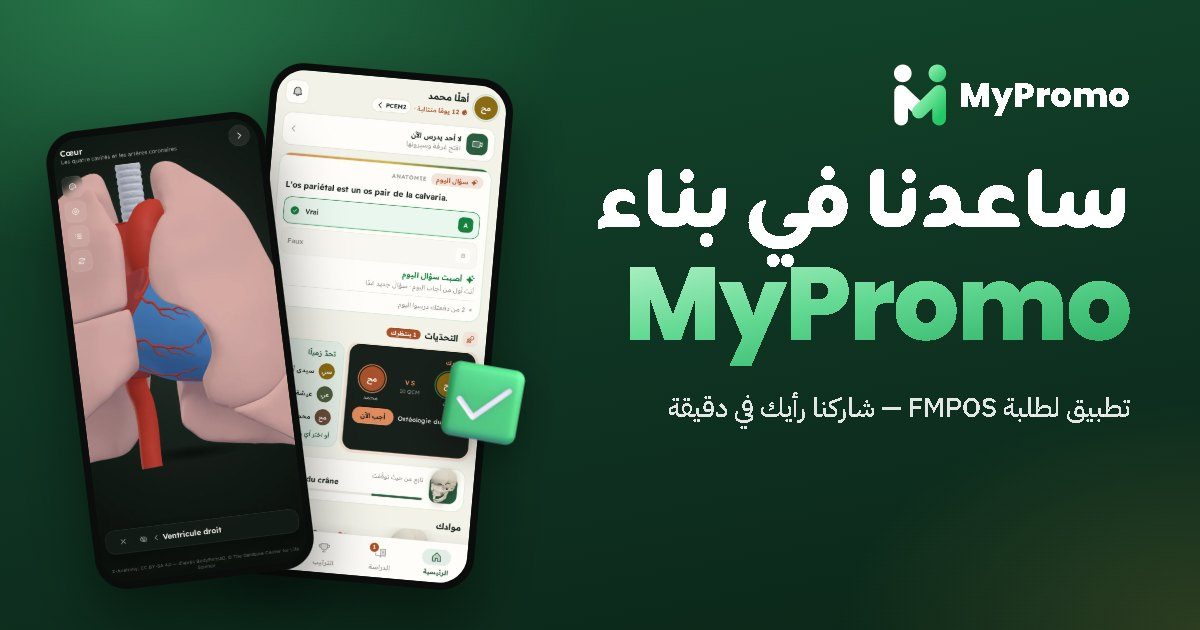
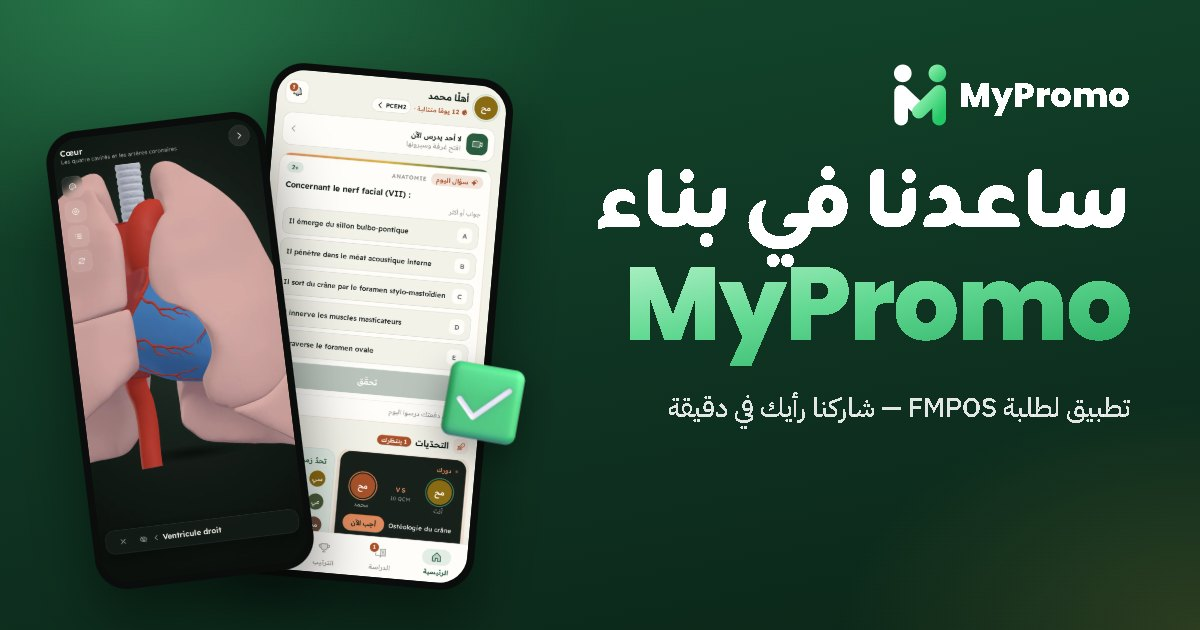
Feedback page: fewer words, five-proposition QCMs, clean 3D shots
- No «منّا ولنا» pill and no «قريبًا · لطلبة FMPOS» chip in the hero.
- Anatomie 3D keeps its title and numbers, without the paragraph.
- No "lectures will be added" note under the tracks.
- New screenshots: a five-proposition QCM answered right, the home
  screen's question of the day in five propositions, and the 3D models
  without the in-screen credit, which moves to the footer.
- The mock's QCMs are five propositions, one or more right, as at FMPOS.

diff --git a/app/feedback/page.js b/app/feedback/page.js
@@ -127,12 +127,10 @@ export default async function Feedback() {
         <div className="lp-in">
           <nav className="lp-top">
             <span className="lp-brand" dir="ltr"><Mark size={30} light /><b>MyPromo</b></span>
-            <span className="lp-slogan">منّا ولنا</span>
           </nav>
 
           <div className="lp-hero-grid">
             <div className="lp-hero-copy">
-              <span className="lp-chip">قريبًا · لطلبة FMPOS</span>
               <h1>
                 <span className="lp-h1a">ساعدنا في بناء</span>
                 <span className="lp-h1b" dir="ltr">MyPromo</span>
@@ -149,7 +147,7 @@ export default async function Feedback() {
 
             <div className="lp-stage" aria-label="صور حقيقية من التطبيق">
               <Phone src="/preview/study.webp" alt="شاشة الدراسة في MyPromo: المواد، QCM، الملخصات والنموذج ثلاثي الأبعاد" className="side" />
-              <Phone src="/preview/home.webp" alt="الشاشة الرئيسية في MyPromo: سؤال اليوم والتحديات" className="main" priority />
+              <Phone src="/preview/home-v2.webp" alt="الشاشة الرئيسية في MyPromo: سؤال اليوم والتحديات" className="main" priority />
               <Ico n="check" size={64} className="lp-float f1" />
               <Ico n="heart" size={70} className="lp-float f2" />
               <Ico n="swords" size={58} className="lp-float f3" />
@@ -171,14 +169,14 @@ export default async function Feedback() {
 
       {/* -------------------------------------------------------- features */}
       <Feature id="qcm" icon="check" kicker="QCM" title={<><span dir="ltr">+10,000</span> سؤال، من المحاضرات والامتحانات السابقة</>}
-        shots={[{ src: '/preview/qcm.webp', alt: 'سؤال QCM في ANATOMIE مع الجواب الصحيح' }]}>
+        shots={[{ src: '/preview/qcm-v2.webp', alt: 'سؤال QCM في ANATOMIE مع الجواب الصحيح' }]}>
         <p>مرتّبة حسب المادة والمحاضرة. تعرف الجواب فور إجابتك، وما تخطئ فيه يعود إليك في «المراجعة» حتى تتقنه.</p>
       </Feature>
 
       <Feature id="anatomie" icon="heart" kicker={<span dir="ltr">Anatomie 3D</span>} title="أدِر النموذج، والمس لتعرف الاسم" dark flip
         shots={[
-          { src: '/preview/heart.webp', alt: 'نموذج Cœur ثلاثي الأبعاد، وقد لُمس Ventricule droit' },
-          { src: '/preview/knee.webp', alt: 'نموذج Genou ثلاثي الأبعاد، وقد لُمست Patella' },
+          { src: '/preview/heart-v2.webp', alt: 'نموذج Cœur ثلاثي الأبعاد، وقد لُمس Ventricule droit' },
+          { src: '/preview/knee-v2.webp', alt: 'نموذج Genou ثلاثي الأبعاد، وقد لُمست Patella' },
         ]}
         extra={(
           <dl className="lp-stats">
@@ -186,12 +184,7 @@ export default async function Feedback() {
             <div><dt>319</dt><dd>معلمًا مُسمّى</dd></div>
             <div><dt>818</dt><dd>اسمًا بالفرنسية</dd></div>
           </dl>
-        )}>
-        <p>
-          نماذج ثلاثية الأبعاد تديرها وتكبّرها بإصبعك. المس أي بنية فيظهر اسمها بالفرنسية —
-          {' '}<span dir="ltr">Ventricule droit</span>، <span dir="ltr">Patella</span> — كما ستجدها في الامتحان.
-        </p>
-      </Feature>
+        )} />
 
       <Feature id="rooms" icon="video" kicker="غرف الدراسة" title="راجعوا معًا، بالصوت والصورة"
         shots={[{ src: '/preview/room.webp', alt: 'غرفة دراسة فيها أربعة طلبة، مع مؤقّت التركيز والدردشة' }]}>
@@ -238,7 +231,6 @@ export default async function Feedback() {
                 </div>
               ))}
             </div>
-            <p className="lp-note">محاضرات الصيدلة وطب الأسنان تُضاف تباعًا.</p>
           </Reveal>
         </div>
       </section>
@@ -266,7 +258,9 @@ export default async function Feedback() {
         <div className="lp-in">
           <span className="lp-brand dark" dir="ltr"><Mark size={24} /><b>MyPromo</b></span>
           <small>FMPOS · Nouakchott</small>
-          <small className="lp-credit" dir="ltr">3D icons: Microsoft Fluent Emoji (MIT)</small>
+          <small className="lp-credit" dir="ltr">
+            3D models: Z-Anatomy (CC BY-SA 4.0), after BodyParts3D © The Database Center for Life Science (CC BY 4.0) · 3D icons: Microsoft Fluent Emoji (MIT)
+          </small>
         </div>
       </footer>
     </div>

diff --git a/app/globals.css b/app/globals.css
@@ -2551,17 +2551,8 @@ html:has(.lp) { scroll-behavior: smooth; }
 .lp-top { display: flex; align-items: center; justify-content: space-between; min-height: 54px; }
 .lp-brand { display: inline-flex; align-items: center; gap: 9px; }
 .lp-brand b { font-family: var(--lp-mark), 'Poppins', sans-serif; font-weight: 800; font-size: 21px; letter-spacing: -.3px; }
-.lp-slogan {
-  font-family: var(--lp-head), sans-serif; font-weight: 800; font-size: 16px; color: var(--lp-mint);
-  padding: 3px 13px 5px; border: 1px solid rgba(205, 237, 213, .32); border-radius: 999px;
-}
 .lp-hero-grid { display: grid; gap: 18px; padding-top: 18px; }
-.lp-chip {
-  display: inline-flex; align-items: center; gap: 9px; font-size: 13.5px; font-weight: 500; color: #E9F6EC;
-  background: rgba(255, 255, 255, .08); border: 1px solid rgba(255, 255, 255, .14);
-  padding: 6px 13px; border-radius: 999px;
-}
-.lp-hero h1 { margin: 14px 0 0; }
+.lp-hero h1 { margin: 0; }
 .lp-h1a { display: block; font-family: var(--lp-head), sans-serif; font-weight: 900; font-size: clamp(44px, 11.5vw, 78px); line-height: 1.12; }
 .lp-h1b {
   display: block; text-align: right; font-family: var(--lp-mark), 'Poppins', sans-serif; font-weight: 800;
@@ -2649,7 +2640,6 @@ html:has(.lp) { scroll-behavior: smooth; }
 .lp-track b { font-family: var(--lp-head), sans-serif; font-weight: 800; font-size: 22px; }
 .lp-years { display: flex; flex-wrap: wrap; gap: 6px; }
 .lp-years i { font-style: normal; font-family: var(--lp-mark), 'Poppins', sans-serif; font-weight: 700; font-size: 13.5px; color: var(--lp-green); background: var(--lp-mint2); padding: 4px 10px; border-radius: 999px; }
-.lp-note { text-align: center; color: var(--lp-mute); font-size: 14px; margin: 14px 0 0; }
 
 .lp-us { color: #fff; text-align: center; padding-block: 64px; margin-top: 38px; background: linear-gradient(170deg, #134A2D, #0F3322); }
 .lp-us h2 { font-family: var(--lp-head), sans-serif; font-weight: 900; font-size: clamp(36px, 8.5vw, 54px); margin: 14px 0 0; }
